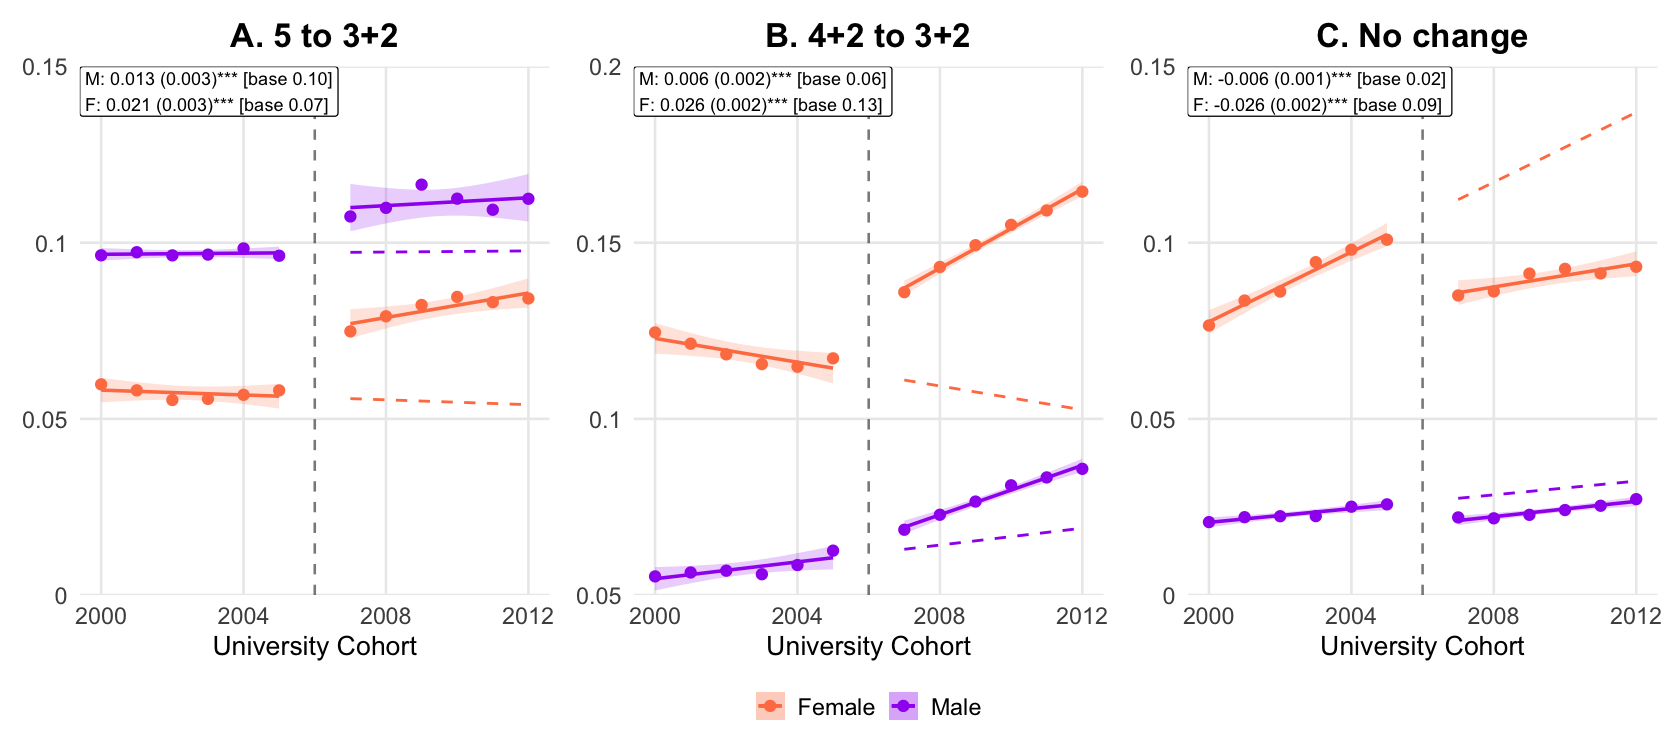
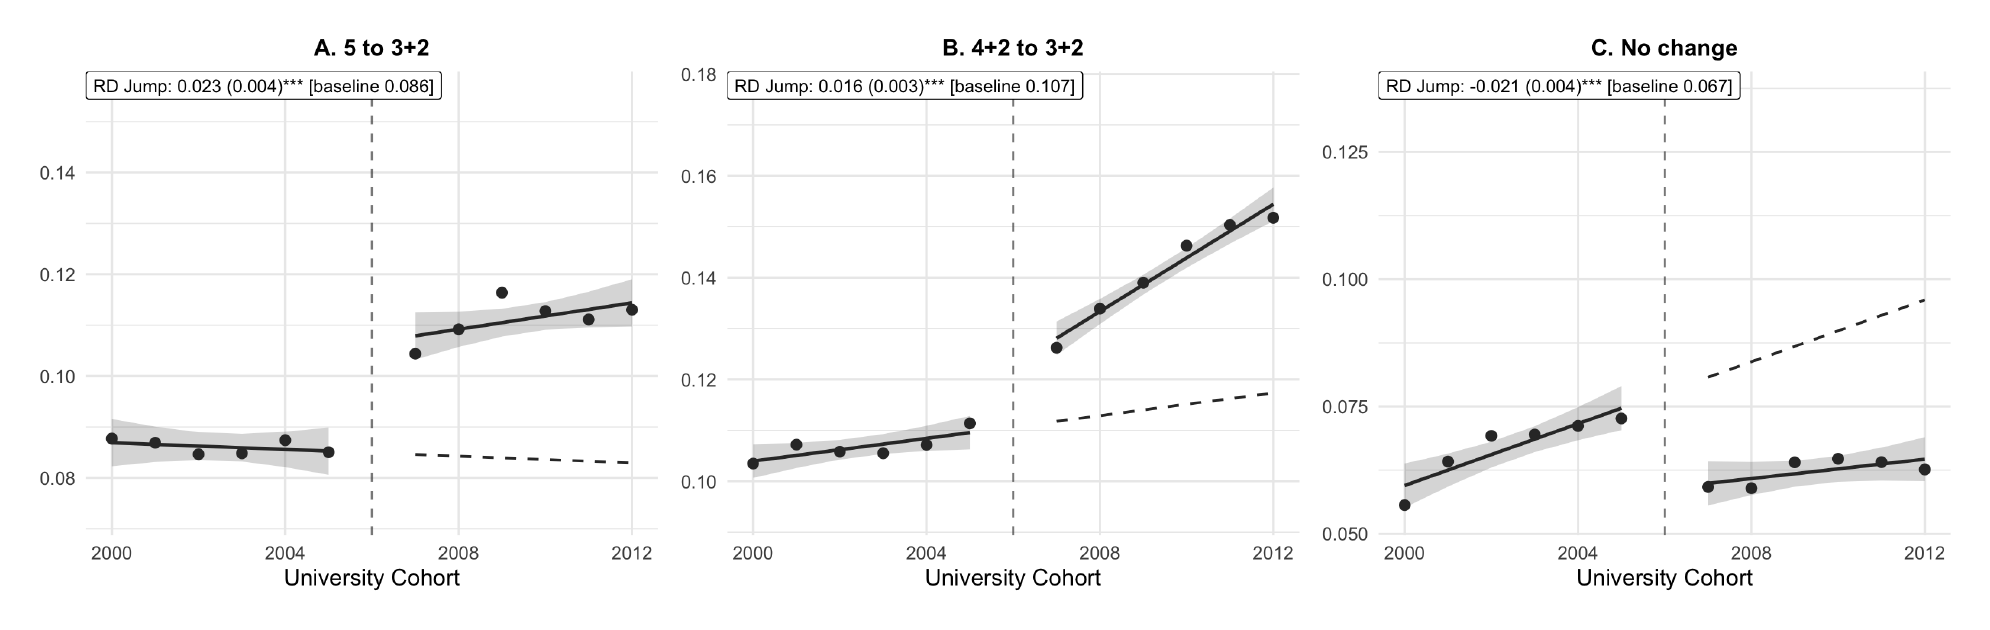
Built site for gh-pages

diff --git a/research/01_pt_bologna/index.html b/research/01_pt_bologna/index.html
@@ -7,7 +7,7 @@
 <meta name="viewport" content="width=device-width, initial-scale=1.0, user-scalable=yes">
 
 <meta name="author" content="Emma Scandolo">
-<meta name="description" content="The Bologna Process moved the first university qualification forward, either by shortening a bachelor’s degree or adding an intermediate qualification to a longer degree. University completion rose by 8%, students moved towards the fields most affected by the reform, and hourly wages at ages 28 to 30 increased by 1.6%.">
+<meta name="description" content="The Bologna Process shortened some first degrees and added an intermediate bachelor’s to longer degrees. University completion rose by 2.4 percentage points (8%), time at university by 0.23 years, and hourly wages at ages 28 to 30 by 2.1%.">
 
 <title>Less to Lose: How shorter and more flexible degrees shape university choice and earnings – Emma Scandolo</title>
 <style>
@@ -182,7 +182,7 @@ cookieconsent.run({
       <div>
       <div class="quarto-title-meta-heading">Published</div>
       <div class="quarto-title-meta-contents">
-        <p class="date">October 2026</p>
+        <p class="date">November 2026</p>
       </div>
     </div>
     
@@ -221,7 +221,7 @@ cookieconsent.run({
 
 <section id="abstract" class="level2">
 <h2 class="anchored" data-anchor-id="abstract">Abstract</h2>
-<p>Higher-education systems differ in how long students must study before they earn their first university qualification. I study the Bologna Process, which moved the first qualification forward in two ways. In fields that already had a bachelor’s and a master’s, it shortened the bachelor’s, so students could earn a degree sooner. In fields with a single long degree, it added a bachelor’s partway through as an intermediate qualification: the full path took as long as before, but students now earned a degree halfway through. Using a regression discontinuity across birth cohorts and linked employer–employee data from Portugal, I find four main results. First, the reform raised university completion by 2.2 percentage points (8%) and hourly wages at ages 28 to 30 by 1.6%, with larger gains for women. Second, students moved towards both kinds of reformed field, and these shifts carried into the sectors where they work. Third, the intermediate qualification did not reduce the number of students completing the full degree: more students reached jobs that require it. Fourth, about two-fifths of the wage gain comes from working at higher-paying firms. Italian data show similar gains. A model of learning while enrolled, estimated only on the education responses, predicts a similar wage gain. In the model, shorter degrees attracted students by lowering cost. The intermediate qualification attracted them by lowering risk: it left students less to lose from trying a field.</p>
+<p>Higher-education systems differ in the length and flexibility of their degrees. A shorter first degree lowers the cost of a qualification but may mean less training. Making a long degree more flexible by splitting it into a bachelor’s and a master’s leaves students less to lose if university does not suit them, but may lead some who would have finished to stop at the bachelor’s. I study these trade-offs using the Bologna Process as a large-scale natural experiment. In fields that already had a bachelor’s and a master’s, it shortened the bachelor’s. In fields with a single long degree, it introduced a bachelor’s credential partway through, making the degree more flexible. Using a regression discontinuity across birth cohorts and linked employer–employee data from Portugal, I find that this flexibility increased, rather than reduced, the share completing the full degree. Overall, the reform raised university completion by 2.4 percentage points (8%), time spent at university by 0.23 years, and hourly wages at ages 28 to 30 by 2.1%, with larger gains for women. Students shifted towards both types of reformed field and away from unchanged fields, with corresponding shifts in their sectors and occupations. A dynamic discrete-choice model in which students learn whether university suits them explains the central finding: flexibility attracts students who are less certain they will succeed, some of whom discover that they are well matched and complete the full degree. Counterfactuals show that whether an intermediate bachelor’s raises full-degree completion depends on when it is awarded and how much it pays relative to the full degree.</p>
 <section id="research-question" class="level3">
 <h3 class="anchored" data-anchor-id="research-question">Research question</h3>
 <p>Long degrees are risky. Students bear tuition and foregone earnings from the start, but learn only gradually whether they are well matched to their field, and much of the payoff arrives only if they graduate. The Bologna Process changed that investment in two distinct ways: it shortened some existing bachelor’s degrees from four years to three, and it inserted a three-year bachelor’s into fields that had previously offered only a single five-year degree.</p>
@@ -238,21 +238,21 @@ cookieconsent.run({
 </section>
 <section id="main-findings" class="level3">
 <h3 class="anchored" data-anchor-id="main-findings">Main findings</h3>
-<p><strong>More students complete university, and total schooling rises.</strong> University completion increases by 2.2 percentage points, or 8% of the pre-reform mean. Average years of university rise by about 0.15 years, or 6%, so the schooling added by new graduates more than offsets any reduction among students who finish earlier. The gains are larger for women.</p>
-<p><strong>Students move towards fields where Bologna changed the first credential.</strong> Degrees increase both in fields that gained a three-year exit—mostly engineering and the sciences—and in fields where the first degree became shorter, including economics, management, the social sciences and the humanities. Students move away from fields with no comparable new exit, especially nursing in Portugal. These shifts are substantially larger for women.</p>
+<p><strong>More students complete university, and total schooling rises.</strong> University completion increases by 2.4 percentage points, or 8% of the pre-reform mean. Average years of university rise by 0.23 years, or 11%, so the schooling added by new graduates more than offsets any reduction among students who finish earlier. The gains are larger for women.</p>
+<p><strong>Students move towards fields where Bologna changed the first credential.</strong> Degrees in fields that gained a three-year exit—mostly engineering, architecture and computing—rise by 2.3 percentage points, or 26% of their pre-reform mean. Degrees in fields where the first degree became shorter rise by 1.6 percentage points, or 15%. Degrees in unchanged fields fall by 2.1 percentage points, or about 30%, driven by health, where nursing remained a four-year degree. These shifts are substantially larger for women.</p>
 <div class="quarto-figure quarto-figure-center">
 <figure class="figure">
 <p><img src="../../img/BP_PT_fields.png" class="img-fluid figure-img"></p>
 <figcaption>University degrees by what the reform did to each field. The panels show fields moving from a five-year degree to a three-plus-two structure, fields moving from a four-plus-two to a three-plus-two structure, and fields with no comparable change.</figcaption>
 </figure>
 </div>
-<p><strong>The new exit does not simply lead students to stop after three years.</strong> Engineering degrees rise, as does employment in engineering occupations that require the full five-year qualification. The reform made engineering less costly to try; some of the additional students then discovered that they were well matched and continued through the master’s.</p>
-<p><strong>Wages rise, partly because graduates work at better-paying firms.</strong> At ages 28 to 30, hourly wages are 1.6% higher for post-reform cohorts: 2.2% for women and 1.0% for men. An AKM decomposition shows that about two-fifths of the gain comes from sorting into firms with higher wage premia. IT and engineering, business services and finance account for most of the overall wage gain, linking the change in earnings to the fields and sectors towards which students moved.</p>
-<p><strong>Early earnings losses are recovered by the early thirties.</strong> Post-reform cohorts enter work later and therefore earn less cumulatively through their twenties. Higher subsequent wages close the gap around age 30 for men and 31 for women.</p>
+<p><strong>The new exit does not simply lead students to stop after three years.</strong> The share of the cohort earning a five-year engineering degree rises by 1.1 percentage points from a baseline of 2.9%. Employment in engineering occupations that require the full five-year qualification rises by 0.7 percentage points from a baseline of 3.1%. The reform made engineering less risky to try; some of the additional students then discovered that they were well matched and continued through the master’s.</p>
+<p><strong>Wages rise, partly because graduates work at better-paying firms.</strong> At ages 28 to 30, hourly wages are 2.1% higher for post-reform cohorts: 2.5% for women and 1.5% for men. An AKM decomposition shows that 46% of the gain comes from sorting into firms with higher wage premia. IT and engineering firms account for 28% of the overall wage effect and business and finance firms for 24%, linking the change in earnings to the fields and sectors towards which students moved.</p>
+<p><strong>Early earnings losses are recovered by the early thirties.</strong> Post-reform cohorts enter work later and therefore earn less cumulatively through their twenties. The gap is largest at age 25, at about EUR 4,900, and higher subsequent wages close it around age 30.</p>
 </section>
 <section id="external-validity" class="level3">
 <h3 class="anchored" data-anchor-id="external-validity">External validity</h3>
-<p>Italy shows the same broad pattern: university completion rises, students move towards fields that gained an earlier credential, and the effects are larger for women. The field effects are smaller than in Portugal, but they occur around a reform introduced six years earlier.</p>
+<p>Italy shows the same broad pattern around a reform introduced six years earlier. University completion rises by 1.4 percentage points (6%) and time at university by 0.13 years (8%). Monthly wages rise by 0.8% overall and by 2.1% among women, with no change in employment. Students again move towards fields that gained an earlier credential, although the field effects are smaller than in Portugal.</p>
 <div class="quarto-figure quarto-figure-center">
 <figure class="figure">
 <p><img src="../../img/BP_PT_fields_portugal_italy.png" class="img-fluid figure-img"></p>
@@ -262,7 +262,7 @@ cookieconsent.run({
 </section>
 <section id="takeaway" class="level3">
 <h3 class="anchored" data-anchor-id="takeaway">Takeaway</h3>
-<p>An earlier credential changes more than the time needed to graduate. By giving students a valuable exit if a field proves to be a poor match, it makes university less risky to try. In Portugal, that option brought more students into higher education, shifted them towards the fields most affected by the reform, and raised wages without diverting them from longer qualifications. The results show how stepping-stone credentials embedded within university can expand access while still encouraging progression to advanced degrees.</p>
+<p>An earlier credential changes more than the time needed to graduate. By giving students a valuable exit if a field proves to be a poor match, it makes university less risky to try. In Portugal, that option brought more students into higher education, shifted them towards the fields most affected by the reform, and raised wages without diverting them from longer qualifications. The model shows that this works when the intermediate credential arrives early enough to insure students but pays sufficiently less than the full degree to preserve the incentive to continue.</p>
 
 
 </section>

diff --git a/research/index.html b/research/index.html
@@ -233,7 +233,7 @@ window.Quarto = {
 <div class="research project-list">
   <ul class="list">
     
-      <li class="project" data-index="0" data-listing-date-sort="1791763200000" data-listing-file-modified-sort="1793569864268" data-listing-date-modified-sort="NaN" data-listing-reading-time-sort="6" data-listing-word-count-sort="1008">
+      <li class="project" data-index="0" data-listing-date-sort="1793491200000" data-listing-file-modified-sort="1793611061287" data-listing-date-modified-sort="NaN" data-listing-reading-time-sort="6" data-listing-word-count-sort="1113">
         <div class="project-content">
           <div class="project-info">
             <p class="project-title">
@@ -244,7 +244,7 @@ window.Quarto = {
             
             
               <div class="project-description">
-                <p>The Bologna Process moved the first university qualification forward, either by shortening a bachelor's degree or adding an intermediate qualification to a longer degree. University completion rose by 8%, students moved towards the fields most affected by the reform, and hourly wages at ages 28 to 30 increased by 1.6%.</p>
+                <p>The Bologna Process shortened some first degrees and added an intermediate bachelor's to longer degrees. University completion rose by 2.4 percentage points (8%), time at university by 0.23 years, and hourly wages at ages 28 to 30 by 2.1%.</p>
               </div>
             
             <div class="project-details-listing">
@@ -279,7 +279,7 @@ window.Quarto = {
         </div>
       </li>
     
-      <li class="project" data-index="1" data-listing-date-sort="1791158400000" data-listing-file-modified-sort="1793569864268" data-listing-date-modified-sort="NaN" data-listing-reading-time-sort="6" data-listing-word-count-sort="1032">
+      <li class="project" data-index="1" data-listing-date-sort="1791158400000" data-listing-file-modified-sort="1793611061288" data-listing-date-modified-sort="NaN" data-listing-reading-time-sort="6" data-listing-word-count-sort="1032">
         <div class="project-content">
           <div class="project-info">
             <p class="project-title">
@@ -326,7 +326,7 @@ window.Quarto = {
         </div>
       </li>
     
-      <li class="project" data-index="2" data-listing-date-sort="1791158400000" data-listing-file-modified-sort="1793569864269" data-listing-date-modified-sort="NaN" data-listing-reading-time-sort="1" data-listing-word-count-sort="55">
+      <li class="project" data-index="2" data-listing-date-sort="1791158400000" data-listing-file-modified-sort="1793611061288" data-listing-date-modified-sort="NaN" data-listing-reading-time-sort="1" data-listing-word-count-sort="55">
         <div class="project-content">
           <div class="project-info">
             <p class="project-title">
@@ -361,7 +361,7 @@ window.Quarto = {
         </div>
       </li>
     
-      <li class="project" data-index="3" data-listing-date-sort="1781481600000" data-listing-file-modified-sort="1793569864268" data-listing-date-modified-sort="NaN" data-listing-reading-time-sort="6" data-listing-word-count-sort="1011">
+      <li class="project" data-index="3" data-listing-date-sort="1781481600000" data-listing-file-modified-sort="1793611061288" data-listing-date-modified-sort="NaN" data-listing-reading-time-sort="6" data-listing-word-count-sort="1011">
         <div class="project-content">
           <div class="project-info">
             <p class="project-title">
@@ -408,7 +408,7 @@ window.Quarto = {
         </div>
       </li>
     
-      <li class="project" data-index="4" data-listing-date-sort="1760745600000" data-listing-file-modified-sort="1793569864268" data-listing-date-modified-sort="NaN" data-listing-reading-time-sort="2" data-listing-word-count-sort="228">
+      <li class="project" data-index="4" data-listing-date-sort="1760745600000" data-listing-file-modified-sort="1793611061288" data-listing-date-modified-sort="NaN" data-listing-reading-time-sort="2" data-listing-word-count-sort="228">
         <div class="project-content">
           <div class="project-info">
             <p class="project-title">
